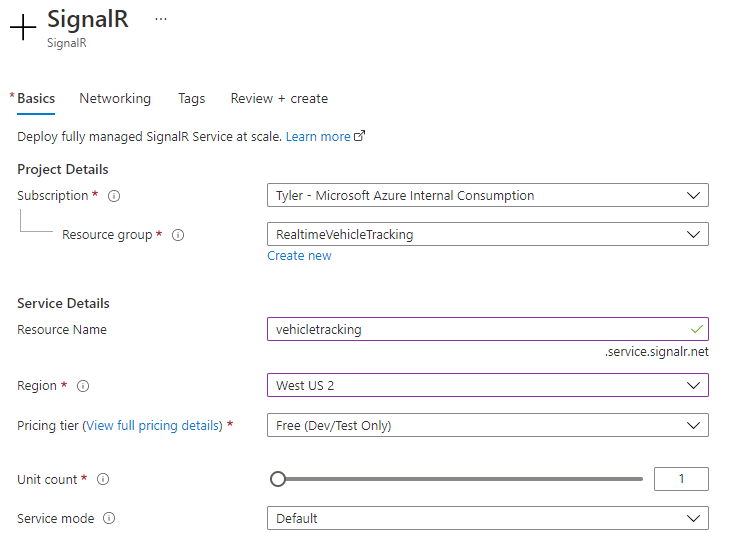
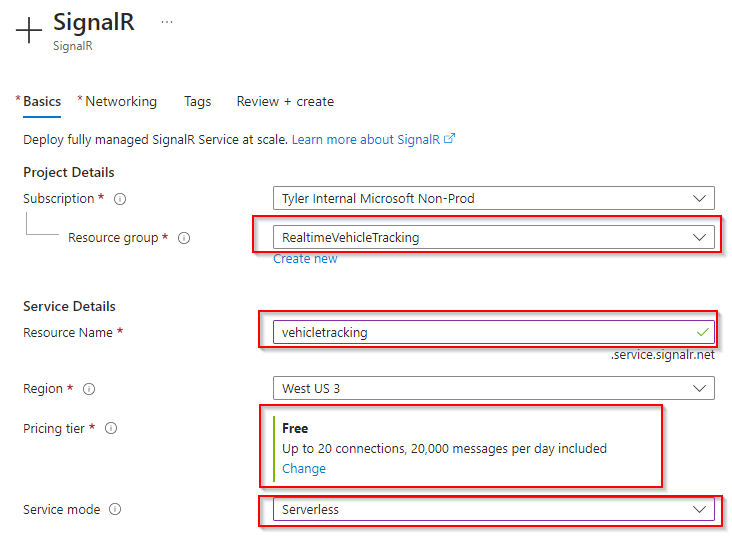
Big Update on all guides
Big update from Franck and Tyler including the deployment guide and azure functions.

diff --git a/web/index.html b/web/index.html
@@ -21,9 +21,8 @@
 
     <script>
         console.log('Start JS');
-        // const baseurl = 'http://localhost:7071';
-        // This is the azure function URL and needs to be updated
-        const baseurl = 'https://vehiclehubpull.azurewebsites.net';
+        // const baseurl = 'http://localhost:7071';  // to run locally
+        const baseurl = '<YOUR FUNCTION APP URL>'; //<-- Change this value with your function URL
         var map, tileLayer;
         var weatherTileUrl = 'https://{azMapsDomain}/map/tile?api-version=2.0&tilesetId={layerName}&zoom={z}&x={x}&y={y}';
 
@@ -34,7 +33,7 @@
                 //Add your Azure Maps subscription key to the map SDK. Get an Azure Maps key at https://azure.com/maps
                 authOptions: {
                     authType: 'subscriptionKey',
-                    subscriptionKey: 'MaRAsIot1DzMQItYmcsfgSQs9scqKQlzqnWAffMaqM8'
+                    subscriptionKey: '<YOUR AZURE MAPS KEY>>' //<-- Change this value with your Azure Maps Key
                 },
                 style: "satellite",
                 zoom: 14.5,
@@ -47,9 +46,9 @@
             map.events.add('ready', function () {
 
                 //Initialize the vehicle icon layers
-                map.imageSprite.add('dozer-icon', 'https://realtimevehicletracking.azurewebsites.net/images/small-dozer.png');
-                map.imageSprite.add('shovel-icon', 'https://realtimevehicletracking.azurewebsites.net/images/shovel.png');
-                map.imageSprite.add('truck-icon', 'https://realtimevehicletracking.azurewebsites.net/images/truck.png');
+                map.imageSprite.add('dozer-icon', 'https://realtimevehicles.azurewebsites.net/images/small-dozer.png'); //<-- Change this value with your Web URL
+                map.imageSprite.add('shovel-icon', 'https://realtimevehicles.azurewebsites.net/images/shovel.png');     //<-- Change this value with your Web URL
+                map.imageSprite.add('truck-icon', 'https://realtimevehicles.azurewebsites.net/images/truck.png');       //<-- Change this value with your Web URL
 
                 //Initialize the weather tile layer.
                 updateTileLayer();
@@ -145,18 +144,26 @@
 
             if (datasource.shapesMap.has(vehicleJson.EquipmentID))
             {
+                // console.log("it already exists")
                 var coords = [ parseFloat(vehicleJson.Longtitude), parseFloat(vehicleJson.Latitude) ]
                 console.log('Vehicle Coordinates: ', vehicleJson.EquipmentID, coords)
                 atlas.animations.setCoordinates(vehicles[vehicleJson.EquipmentID], coords, { duration: 3000, autoPlay: true });
+                // This section of 5 lines is optional if you need to change the attributes of existing vehicles
+                vehicles[vehicleJson.EquipmentID].addProperty('vehicletype', vehicleJson.VehicleType); 
+                vehicles[vehicleJson.EquipmentID].addProperty('name', vehicleJson.EquipmentID);
+
+                if (vehicleJson.VehicleType == 'Shovel') {vehicles[vehicleJson.EquipmentID].addProperty('image', "shovel-icon");}
+                else if (vehicleJson.VehicleType == 'Dozer') {vehicles[vehicleJson.EquipmentID].addProperty('image', "dozer-icon");}
+                else {vehicles[vehicleJson.EquipmentID].addProperty('image', "truck-icon");}
 
             } else {
                 // console.log("its not here")
                 var newVehiclePin = new atlas.Shape(new atlas.data.Point([vehicleJson.Longtitude, vehicleJson.Latitude]), vehicleJson.EquipmentID);
                 newVehiclePin.addProperty('vehicletype', vehicleJson.VehicleType);
-                    // check vechicleJson value of vehicle and attach a shape property to represent the shape image
-                    if (vehicleJson.VehicleType == 'Shovel') {newVehiclePin.addProperty('image', "shovel-icon");}
-                    else if (vehicleJson.VehicleType == 'Dozer') {newVehiclePin.addProperty('image', "dozer-icon");}
-                    else {newVehiclePin.addProperty('image', "truck-icon");}
+                // check vechicleJson value of vehicle and attach a shape property to represent the shape image
+                if (vehicleJson.VehicleType == 'Shovel') {newVehiclePin.addProperty('image', "shovel-icon");}
+                else if (vehicleJson.VehicleType == 'Dozer') {newVehiclePin.addProperty('image', "dozer-icon");}
+                else {newVehiclePin.addProperty('image', "truck-icon");}
                 newVehiclePin.addProperty('name', vehicleJson.EquipmentID);
                 vehicles[vehicleJson.EquipmentID] = newVehiclePin;
                 datasource.add(Object.values(vehicles));
@@ -244,7 +251,7 @@
 
         // load water body data
         function loadWaterData(datasource) {
-        fetch('https://realtimevehicletracking.azurewebsites.net/data/waterbodies.json').then(response => response.json()).then(body => {
+        fetch('https://realtimevehicles.azurewebsites.net/data/waterbodies.json').then(response => response.json()).then(body => {  //<-- Change this value with your Web URL
             datasource.add(body)
         })
         }

diff --git a/producer/SendVehicleEvents.py b/producer/SendVehicleEvents.py
@@ -3,8 +3,7 @@ import requests
 import time
 
 # Replace the following variables with your information
-sas = 'SharedAccessSignature sr=VehicleTrackingIoT.azure-devices.net%2Fdevices%2FMineVehicle&sig=sdvjy4H1YlN3ouRWHYFOdhi%2BuQR2%2Bbm5C2LEhcmcn20%3D&se=1726764360'
-#sas = <REPLACE WITH YOUR SAS TOKEN>
+sas = 'SharedAccessSignature sr=<REPLACE WITH YOUR SAS TOKEN>' # <-- Replace with your SAS token
 iotHub = 'VehicleTrackingIoT'
 deviceId = 'MineVehicle'
 

diff --git a/docs/SolutionDeploymentGuide.md b/docs/SolutionDeploymentGuide.md
@@ -86,7 +86,7 @@ The duration for the token is set in seconds, therefore to set the SAS token to 
 
 &nbsp;&nbsp;&nbsp;&nbsp;&nbsp;&nbsp;<img src=https://github.com/tbecks/Realtime-Vehicle-Tracking/blob/main/docs/img/Deploy-IoTHub7-SASToken.png width=600>
 
-You will need to use the returned SAS token and update the Python based producer in the next steps.  Copy the results within the double quotes which start with `SharedAccessSignature sr=`.
+You will need to use the returned SAS token and update the Python based producer in the next steps.  Copy the results within the double quotes which start with `SharedAccessSignature sr=`
 
 ## Setup Python Vehicle Data Producer
 <img src=https://github.com/tbecks/Realtime-Vehicle-Tracking/blob/main/docs/img/Logo-Python.png width=75>
@@ -104,6 +104,10 @@ In the file look for the section below `# Replace the following variables with y
 - `sas`
 - `iotHub`
 - `deviceId`
+
+<img src=./img/Deploy-Producer-Setup.png width=300>
+
+Optionally you can also change the source of your data, for this lab we will use the existing `AllVehicles.csv` source file.
 
 ### Test the Producer
 We now want to test that we can successfully send data from our Python data producer to our IoT Hub.  This will validate that the producer is properly configured and the solution is receiving data in Azure.  The easiest way to verify that data is arriving on the IoT Hub is to use the Azure CLI commands:
@@ -135,12 +139,14 @@ This validates that we can subscribe to our IoT Hub and subscribe to the event s
 ---
 # Part 2: Data Processing
 ## SignalR Configuration
-<img src=https://github.com/tbecks/Realtime-Vehicle-Tracking/blob/main/docs/img/Logo-SignalR.png width=75>
+<img src=./img/Logo-SignalR.png width=75>
 
 [Azure SignalR Service](https://docs.microsoft.com/en-us/azure/azure-signalr/signalr-overview) simplifies the process of adding real-time web functionality to applications over HTTP web connections. This real-time functionality allows the service to push content updates to connected clients, such as a single page web or mobile application. Clients are updated without having to poll the server for new data.  For our solution SignalR will be used to push events to our Azure Maps web interface, however, there are many other destinations and use cases which this pattern supports.
 
 1. Create a new SignalR service from the Azure Portal.
-&nbsp;&nbsp;&nbsp;&nbsp;&nbsp;&nbsp;<img src=https://github.com/tbecks/Realtime-Vehicle-Tracking/blob/main/docs/img/Deploy-SignalR-1.png width=600>
+&nbsp;&nbsp;&nbsp;&nbsp;&nbsp;&nbsp;<img src=./img/Deploy-SignalR-1.png width=600>
+
+Note: Ensure you update the pricing and service mode settings.
 
 2. Once provisioned go in to the overview of you SignalR service and make note of the *connection string* as we will need to use this later on. 
 &nbsp;&nbsp;&nbsp;&nbsp;&nbsp;&nbsp;<img src=https://github.com/tbecks/Realtime-Vehicle-Tracking/blob/main/docs/img/Deploy-SignalR-2.png width=600>
@@ -173,78 +179,170 @@ There are two functions as part of the solution that we will be deploying:
 - *negotiate* - Negotiates a SignalR Connection to the Web App 
 
 1. Start by deploying an Azure Function instance in Azure:
-  
-  &nbsp;&nbsp;&nbsp;&nbsp;&nbsp;&nbsp;<img src=https://github.com/tbecks/Realtime-Vehicle-Tracking/blob/main/docs/img/Deploy-AzureFunction-0.png width=200>
 
-&nbsp;&nbsp;&nbsp;&nbsp;&nbsp;&nbsp;<img src=https://github.com/tbecks/Realtime-Vehicle-Tracking/blob/main/docs/img/Deploy-AzureFunction-1.png width=600>
+&nbsp;&nbsp;&nbsp;&nbsp;&nbsp;&nbsp;<img src=./img/Deploy-AzureFunction-1.png width=600>
+&nbsp;&nbsp;&nbsp;&nbsp;&nbsp;&nbsp;<img src=./img/Deploy-AzureFunction-1b.png width=600>
 &nbsp;&nbsp;&nbsp;&nbsp;&nbsp;&nbsp;<img src=https://github.com/tbecks/Realtime-Vehicle-Tracking/blob/main/docs/img/Deploy-AzureFunction-2.png width=600>
 
 Note: There is no requirement to have Application Insight Enabled.
 
-2. Once the Function App service is provisioned, we need to deploy the provided code to the Azure Function service to create the new functions.  Ensure that you have downloaded the solution source code from GitHub and open with VS Code.  
+2. Once the Function App service is provisioned, we need to deploy the provided code to the Azure Function service to create the new functions.  Ensure that you have downloaded the solution source code from GitHub and open with VS Code. 
 
-&nbsp;&nbsp;&nbsp;&nbsp;&nbsp;&nbsp;<img src=https://github.com/tbecks/Realtime-Vehicle-Tracking/blob/main/docs/img/Deploy-AzureFunction-3.png width=600>
 
-  
-***** Ensure prerequisit has downloading the code locally. and opening with VS Code.
-FIX THIS:
-- log into azure, go into azure function > configuration and add the following settings:
-- `AzureWebJobsStorage` 
-- `FUNCTIONS_WORKER_RUNTIME`
+&nbsp;&nbsp;&nbsp;&nbsp;&nbsp;&nbsp;<img src=./img/Deploy-AzureFunction-3.png width=300>
+
+- In the Azure portal navigate to your Azure Function App to configure some key settings:
+
+&nbsp;&nbsp;&nbsp;&nbsp;&nbsp;&nbsp;<img src=./img/Deploy-AzureFunction-2b.png width=600>
+
+The following settings need to be defined in the Function App Configuration section:
 - `AzureIOTHubConnectionString`
 - `AzureSignalRConnectionString`
 
 *Note: Bicep template will create the functions and configuration*
-- ADD SCREEN SHOT 
 
 These settings can also be found in the `local.settings.json` file with your environment values:
 &nbsp;&nbsp;&nbsp;&nbsp;&nbsp;&nbsp;<img src=https://github.com/tbecks/Realtime-Vehicle-Tracking/blob/main/docs/img/Deploy-AzureFunction-4.png width=600>
 
   |Configuration Parameter|Where to Get Value|
   |---|---|
-  |AzureWebJobsStorage|(insert link)|
-  |AzureIOTHubConnectionString|(insert link)|
-  |AzureSignalRConnectionString|(insert link)|
-  
-`Build` and `Deploy` the project to the Azure Functions service.  From the VS Code terminal window run `dotnet build` (or right click the project file and select **Build .NET Core project**).  Once build deploy the solution in VS Code by running the following commands:
+  |AzureIOTHubConnectionString|IoT Hub > Built-in Endpoints > Event Hub-compatible endpoint
+|
+  |AzureSignalRConnectionString|SignalR > Connection Strings > For Access Key - Connection String|
+
+&nbsp;&nbsp;&nbsp;&nbsp;&nbsp;&nbsp;<img src=./img/Deploy-AzureFunction-7.png width=600>
+
+### Deploy Function Code
+We will deploy the funciton code from Visual Studio Code.  
+
+Start by opening VS Code and logging into Azure:
+
+&nbsp;&nbsp;&nbsp;&nbsp;&nbsp;&nbsp;<img src=./img/Deploy-AzureFunction-8.png width=200>&nbsp;&nbsp;&nbsp;&nbsp;&nbsp;&nbsp;<img src=./img/Deploy-AzureFunction-9.png width=200>
+
+**Optional:** `Build` and `Deploy` the project to the Azure Functions service.  From the VS Code terminal window run `dotnet build` (or right click the project file and select **Build .NET Core project**).  
+
+Deploy the solution in VS Code by running the following commands in VS Code:
+
+&nbsp;&nbsp;&nbsp;&nbsp;&nbsp;&nbsp;<img src=./img/Deploy-AzureFunction-10.png width=600>
 
 - Open the Command Pallette (Ctl-Shift-P)
 - Type `Azure Functions: Deploy to function app`
-- Walk through the prompts to deploy to the Azure Functions service you deployed previously
+- Walk through the prompts to deploy to the Azure Functions service 
 
-Ensure the funciton successfully deploys.
+Note: If you are prompted click on `Update and Deploy`
 
-## Azure App Service
-The App Service will provide the web based front end.  Create a App Service instance in the Azure Portal:
-&nbsp;&nbsp;&nbsp;&nbsp;&nbsp;&nbsp;<img src=https://github.com/tbecks/Realtime-Vehicle-Tracking/blob/main/docs/img/Deploy-AppService-1.png width=600>
+Ensure the funciton successfully deploys.  You should see the following message after the deployment is complete:
+
+&nbsp;&nbsp;&nbsp;&nbsp;&nbsp;&nbsp;<img src=./img/Deploy-AzureFunction-11.png width=300>
+
+You can confirm the functions are deployed by navigating to the Azure Function App in the Azure Portal and selecting **Functions** from the left menu.  You should see the two functions deployed:
+
+&nbsp;&nbsp;&nbsp;&nbsp;&nbsp;&nbsp;<img src=./img/Deploy-AzureFunction-12.png width=300>
+
+## Azure Web App
+&nbsp;&nbsp;&nbsp;&nbsp;&nbsp;&nbsp;<img src=./img/Deploy-AppService-0.png width=80>
+
+The App Service will provide the web based front end to the solution.  It provides a web socket connection to the SignalR service to receive events from the Azure Functions service.  The web app is a simple HTML page with Javascript to render the map and vehicle locations.
+
+Create a App Service instance in the Azure Portal:
+
+&nbsp;&nbsp;&nbsp;&nbsp;&nbsp;&nbsp;<img src=./img/Deploy-AppService-1.png width=600>
 
 The name needs to be unique and will form your sites URL.  Select PHP as the runtime stack as we are using a simple HTML page with Javascript.  Make note of the App Service URL, this will be used to access the web front end from a browser.
 
+### Deploy Web App Code
+
+You should now have all the required services deployed in Azure:
+
+&nbsp;&nbsp;&nbsp;&nbsp;&nbsp;&nbsp;<img src=./img/Deploy-AppService-1b.png width=600>
+
+#### Azure Function CORS Configuration
+
+In order to allow the Azure Maps Service to communicate with the Azure Functions, you will need to make a configurtion change to the Azure Functions service.  
+
+Navigate to the Azure Functions service in the Azure Portal and select **Platform Features > CORS** from the left menu.  Add the following URL to the list of allowed origins:
+
+&nbsp;&nbsp;&nbsp;&nbsp;&nbsp;&nbsp;<img src=./img/Deploy-AppService-1c.png width=600>
+
+In our case we will add `https://realtimevehicles.azurewebsites.net` to the allowed origins list.  Click `Save` to save the changes.
+
+
+#### Modify Web App Code
 Open VS Code and ensure you have the Azure App Service extension installed:
 &nbsp;&nbsp;&nbsp;&nbsp;&nbsp;&nbsp;<img src=https://github.com/tbecks/Realtime-Vehicle-Tracking/blob/main/docs/img/Deploy-AppService-3.png width=600>
 
-Then Open the Azure blade and navigate to the Azure App Service section to deploy the web source code to the App Service in Azure:
-&nbsp;&nbsp;&nbsp;&nbsp;&nbsp;&nbsp;<img src=https://github.com/tbecks/Realtime-Vehicle-Tracking/blob/main/docs/img/Deploy-AppService-2.png width=600>
+In VS Code go into the "Explorer" blade to navigate the code base.  In the "Web" folder click the "Index.html" file. Replace the following values:
 
-This will open the command pallet at the top, follow the steps to choose which folder to deploy to your App Service:
+- baseurl (the url of your Azure Function App)
+- subscriptionKey (the key to your Azure Maps service)
+
+&nbsp;&nbsp;&nbsp;&nbsp;&nbsp;&nbsp;<img src=./img/Deploy-AppService-3a.png width=600>
+
+In addition, update the references to the web URL in the same index.html file:
+
+For Images:
+
+&nbsp;&nbsp;&nbsp;&nbsp;&nbsp;&nbsp;<img src=./img/Deploy-AppService-3b.png width=600>
+
+For Features:
+
+&nbsp;&nbsp;&nbsp;&nbsp;&nbsp;&nbsp;<img src=./img/Deploy-AppService-3c.png width=600>
+
+#### Deploy Web App
+Now we can deploy the web app code to the App Service.  
+
+Open the Azure blade and navigate to the Azure App Service section.  Open App Services and right click on the App Service you created.  Select **Deploy to Web App**:
+
+&nbsp;&nbsp;&nbsp;&nbsp;&nbsp;&nbsp;<img src=./img/Deploy-AppService-3d.png width=500>
+
+
+This will open the command pallet at the top, select `Browse` and follow the steps to choose which folder to deploy to your App Service:
+
+&nbsp;&nbsp;&nbsp;&nbsp;&nbsp;&nbsp;<img src=./img/Deploy-AppService-4.png width=500>
+
 - Navigate to the web folder of the solution repo
-- settings:
--   configure > web sockets on?
+
+&nbsp;&nbsp;&nbsp;&nbsp;&nbsp;&nbsp;<img src=./img/Deploy-AppService-5.png width=500>
+
+Once the deployment is complete you should see the following message:
+
+&nbsp;&nbsp;&nbsp;&nbsp;&nbsp;&nbsp;<img src=./img/Deploy-AppService-6.png width=300>
+
+You can now go to the URL of the Web App and test the solution (the URL will be unique for your deployment).  For now you will see a blank map zoomed in on a mine site: [https://realtimevehicles.azurewebsites.net/](https://realtimevehicles.azurewebsites.net/)
+
+&nbsp;&nbsp;&nbsp;&nbsp;&nbsp;&nbsp;<img src=./img/Deploy-AppService-7.png width=600>
+
 
 # Part 5: Running the Solution #
-- open map
-- start producer
-- watch vehicles move around
--
+To start the solution open the map in a browser: [https://realtimevehicles.azurewebsites.net/](https://realtimevehicles.azurewebsites.net/)
+
+With the map open start the python based data producer.  This can be done through VS Code directly, or through a command prompt.  To run the producer through a command prompt:
+- Open a command prompt in the producer folder: `.\Realtime-Vehicle-Tracking\producer\`
+- In this folder is the python script to send events to IoT Hub: `py SendVehicleEvents.py`
+- Run the producer by typing `py SendVehicleEvents.py`
+- You will start to see streaming events being sent to IoT Hub:
+&nbsp;&nbsp;&nbsp;&nbsp;&nbsp;&nbsp;<img src=./img/Deploy-AppService-8.png width=600>
+
+- Go back to the web browser and you should start to see the vehicles appear and move around the map based on the telemetry from the datafile:
+&nbsp;&nbsp;&nbsp;&nbsp;&nbsp;&nbsp;<img src=./img/Deploy-AppService-9.png width=600>
+
+### Debugging the solution
+In the event you would like to see the events being sent to the browser through the web socket, you can open the browsers development view and see events realtime in the browser.  To do this press `F12` in the browser to open the `developer tools`.  Select the **Console** tab and you will see the events being sent to the browser:
+
+&nbsp;&nbsp;&nbsp;&nbsp;&nbsp;&nbsp;<img src=./img/Deploy-AppService-10.png width=600>
+
 
 # Part 4: Extended Use Cases #
-## Data Lake Historical Data Capture #
+## Operational Data Capture: Integration with Cosmos DB for PostgreSQL #
+Data can be persisted for for the purposes of operational reporting and analytics.  This enables near realtime analysis, reporting and alerting on the data.  In this use case we will use Cosmos DB for PostgreSQL to persist the data.
+
+## Historical Data Capture: Integration with Lakehouse #
 To persist data long term for the purposes of analytics:
 - create a new Data Lake Storage Account
 - create a route in IoT Hub to send data to the Data Lake Container
 - create a new Default route (this is critical as creating a custom route will shut off the existing default route so you will need to explicitly create a new one
 
-## Data Transformation with Azure Stream Analytics #
+## Streaming Data Transformation with Azure Stream Analytics #
 - using ASA jobs to transform daa
 
 ## Data Transformation with Databricks Spark Streaming Job #

diff --git a/README.md b/README.md
@@ -1,6 +1,9 @@
 # Realtime Vehicle Tracking
 
-This solution is intended to simulate a vechicle tracking solution in real-time over a mapping applications.  Vehicle data consists of GPS coordinate data that is streamed into Azure and presented on a web application using Azure Maps.  
+This solution is intended to simulate a vechicle tracking solution in real-time over a mapping applications.  Vehicle data consists of GPS coordinate data that is streamed into Azure and presented on a web application using Azure Maps. 
+
+
+<img src=./docs/img/Realtime-Vehicle-Tracking.gif width=600>
 
 The solution will use the following services:
 * Local Python script - to publish tracking coordinates
